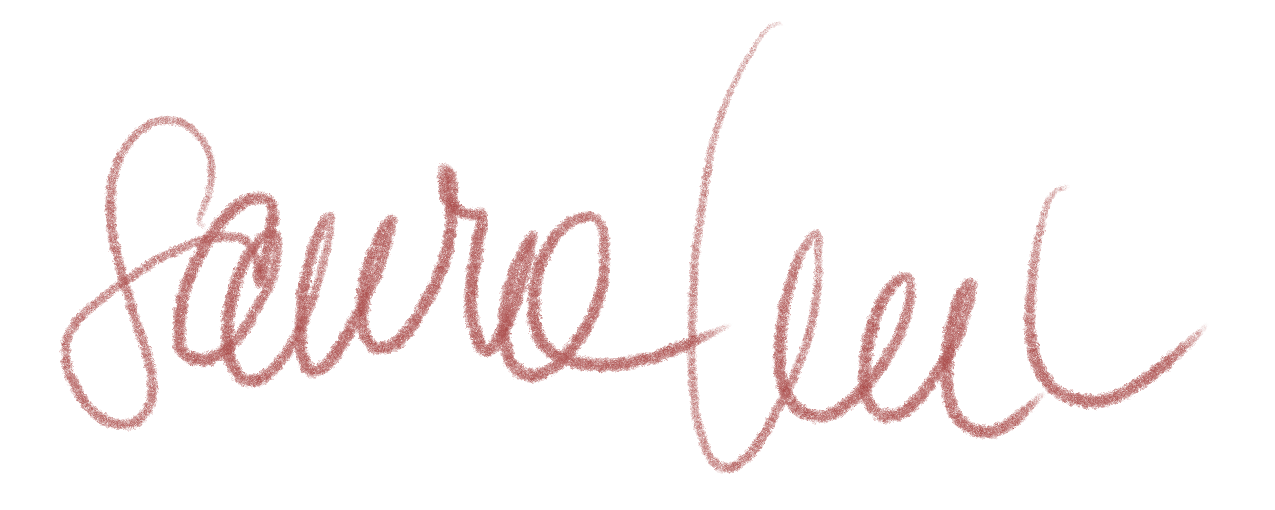
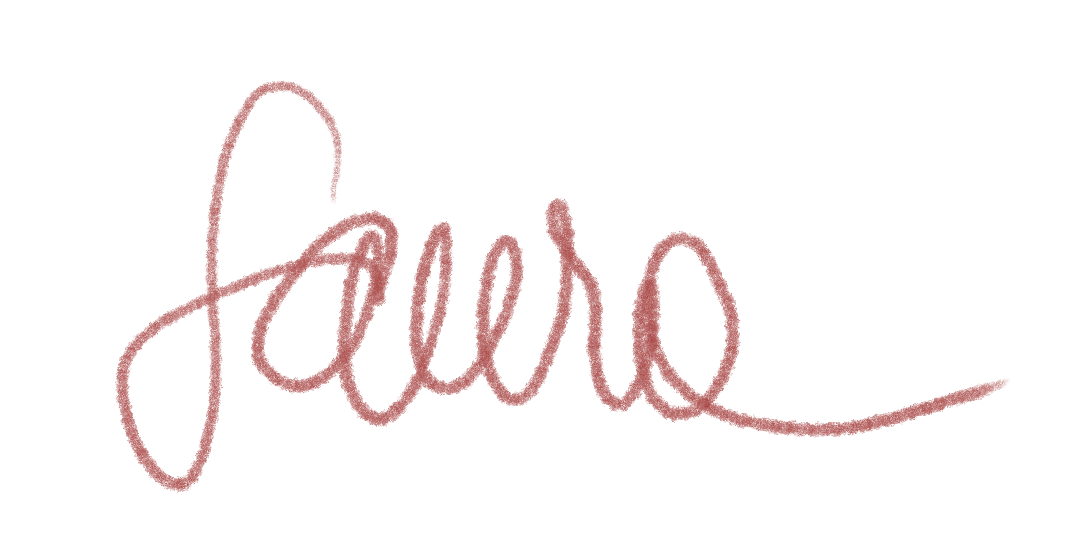
fix image links, update sig, update contact form from email

diff --git a/_includes/about.html b/_includes/about.html
@@ -8,7 +8,7 @@
         </div>
         <div class="row bio">
             <div class="col-lg-4">
-                <img class="img-responsive" src="../img/laura.jpg">
+                <img class="img-responsive" src="img/laura.jpg">
             </div>
             <div class="col-lg-8">
                 <span class="bio-name">Laura Vinti</span> was born and raised in Italy. After spending 17 years in Heidelberg, Germany, and 15 years in Fairfax, VA, she now lives in Florence, where she organizes tours to Italy and teaches Italian Language and Culture to American students studying abroad. In the past, she taught at the universities of Heidelberg and Mannheim in Germany, at George Mason University in Fairfax, VA, and at the Florence campuses of Gonzaga University and Syracuse University. Laura’s passions include history, art, and writing; discovering hidden treasures in Italy; and sharing her love of her home country and its history with anyone who will listen. 
@@ -23,7 +23,7 @@
             <!-- bootstrap v3 (this site) -->
             <div class="col-lg-4 visible-xs-block hidden-xl">
                 <!-- hidden on large screens -->
-                <img class="img-responsive" src="../img/livia.jpg">
+                <img class="img-responsive" src="img/livia.jpg">
             </div>
             <div class="col-lg-8">
                 <span class="bio-name">Livia Grimaldi</span> lives in Naples. She loves to travel, both professionally and in her free time, and has a special talent for discovering lesser-known, beautiful spots in her beloved Italy. Besides organizing tours, she has been working extensively in classical music management for the past several years and plays a very active role in promoting classical music in Naples. She has co-organized many prestigious events, most recently Piano City Napoli and Spinacorona.  Livia has been President of the network ’Namusica, whose aim is to promote music and art in their many forms and with different media.
@@ -35,7 +35,7 @@
             <!-- bootstrap v3 (this site) -->
             <div class="col-lg-4 hidden-xs show-xl-block">
                 <!-- hidden on small screens -->
-                <img class="img-responsive" src="../img/livia.jpg">
+                <img class="img-responsive" src="img/livia.jpg">
             </div>
         </div>
     </div>

diff --git a/_includes/header.html b/_includes/header.html
@@ -29,14 +29,14 @@
                 <li>
                     <a class="page-scroll" href="#portfolio">Previous Destinations</a>
                 </li>
-                <li>
-                    <a class="page-scroll" href="#about">About Us</a>
-                </li>
                 <!-- <li>
                     <a class="page-scroll" href="#team">Team</a>
                 </li> -->
                 <li>
                     <a class="page-scroll" href="#testimonials-hero">Testimonials</a>
+                </li>
+                <li>
+                    <a class="page-scroll" href="#about">About Us</a>
                 </li>
                 <li>
                     <a class="page-scroll" href="#contact">Contact</a>

diff --git a/_includes/philosophy.html b/_includes/philosophy.html
@@ -17,7 +17,7 @@
                 Then come with us to see “our” Italy. We’ll be here, ready to surprise you.
             </div>
             <div class="col-lg-4">
-                <img class="img-responsive" src="../img/laura_livia.jpg">
+                <img class="img-responsive" src="img/laura_livia.jpg">
             </div>
         </div>
         <div class="row">
@@ -29,7 +29,7 @@
                 </blockquote>
             </div>
             <div class="col-lg-12 text-right">
-                <img class="signature" src="../img/signature.png" />
+                <img class="signature" src="img/signature.png" />
             </div>
         </div>
         <div class="row">

diff --git a/mail/contact_me.php b/mail/contact_me.php
@@ -19,7 +19,7 @@ $message = $_POST['message'];
 $to = 'travel@italyshiddengems.com'; // Add your email address inbetween the '' replacing yourname@yourdomain.com - This is where the form will send a message to.
 $email_subject = "Website Contact Form:  $name";
 $email_body = "You have received a new message from your website contact form.\n\n"."Here are the details:\n\nName: $name\n\nEmail: $email_address\n\nPhone: $phone\n\nMessage:\n$message";
-$headers = "From: noreply@yourdomain.com\n"; // This is the email address the generated message will be from. We recommend using something like noreply@yourdomain.com.
+$headers = "From: noreply@italyshiddengems.com\n"; // This is the email address the generated message will be from. We recommend using something like noreply@yourdomain.com.
 $headers .= "Reply-To: $email_address";
 mail($to,$email_subject,$email_body,$headers);
 return true;
